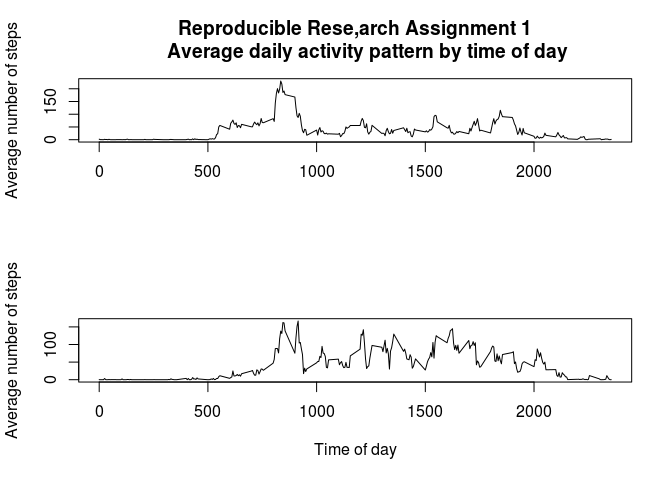
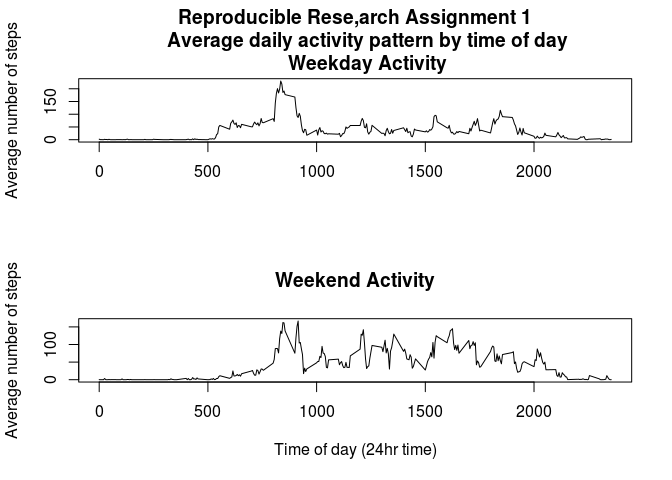
minor updates to last figure

Changed region(s): [[0.25, 0.0, 0.8438, 0.1562], [0.4062, 0.9062, 0.6562, 0.9688], [0.4062, 0.5625, 0.6562, 0.625]]

diff --git a/PA1_template.html b/PA1_template.html
@@ -268,7 +268,8 @@ plot(names(ts_m_i_wd),
      ts_m_i_wd,
      type = 'l',
      main = &quot;Reproducible Rese,arch Assignment 1
-     Average daily activity pattern by time of day&quot;,
+     Average daily activity pattern by time of day
+     Weekday Activity&quot;,
      xlab = &quot;&quot;,
      ylab = &quot;Average number of steps&quot;
      )
@@ -276,17 +277,11 @@ plot(names(ts_m_i_wd),
 plot(names(ts_m_i_we),
      ts_m_i_we,
      type = 'l',
-     xlab = &quot;Time of day&quot;,
+     main = &quot;Weekend Activity&quot;,
+     xlab = &quot;Time of day (24hr time)&quot;,
      ylab = &quot;Average number of steps&quot;
      )</code></pre>
[1 lines of base64/hex data omitted]
-<pre class="r"><code>#library(ggplot2)
-#qplot(data = the_data,
-#     facets = wkdaywkend,
-#     main = &quot;Reproducible Rese,arch Assignment 1
-#     Average daily activity pattern by time of day&quot;,
-#     xlab = &quot;Time of day&quot;,
-#     ylab = &quot;Average number of steps&quot;)</code></pre>
[1 lines of base64/hex data omitted]
 </div>
 
 

diff --git a/PA1_template.md b/PA1_template.md
@@ -295,7 +295,8 @@ plot(names(ts_m_i_wd),
      ts_m_i_wd,
      type = 'l',
      main = "Reproducible Rese,arch Assignment 1
-     Average daily activity pattern by time of day",
+     Average daily activity pattern by time of day
+     Weekday Activity",
      xlab = "",
      ylab = "Average number of steps"
      )
@@ -303,21 +304,12 @@ plot(names(ts_m_i_wd),
 plot(names(ts_m_i_we),
      ts_m_i_we,
      type = 'l',
-     xlab = "Time of day",
+     main = "Weekend Activity",
+     xlab = "Time of day (24hr time)",
      ylab = "Average number of steps"
      )
 ```
 
 ![](PA1_template_files/figure-html/panelplot-1.png) 
-
-```r
-#library(ggplot2)
-#qplot(data = the_data,
-#     facets = wkdaywkend,
-#     main = "Reproducible Rese,arch Assignment 1
-#     Average daily activity pattern by time of day",
-#     xlab = "Time of day",
-#     ylab = "Average number of steps")
-```
 
 [1]: https://github.com/whanrott/RepData_PeerAssessment1 
